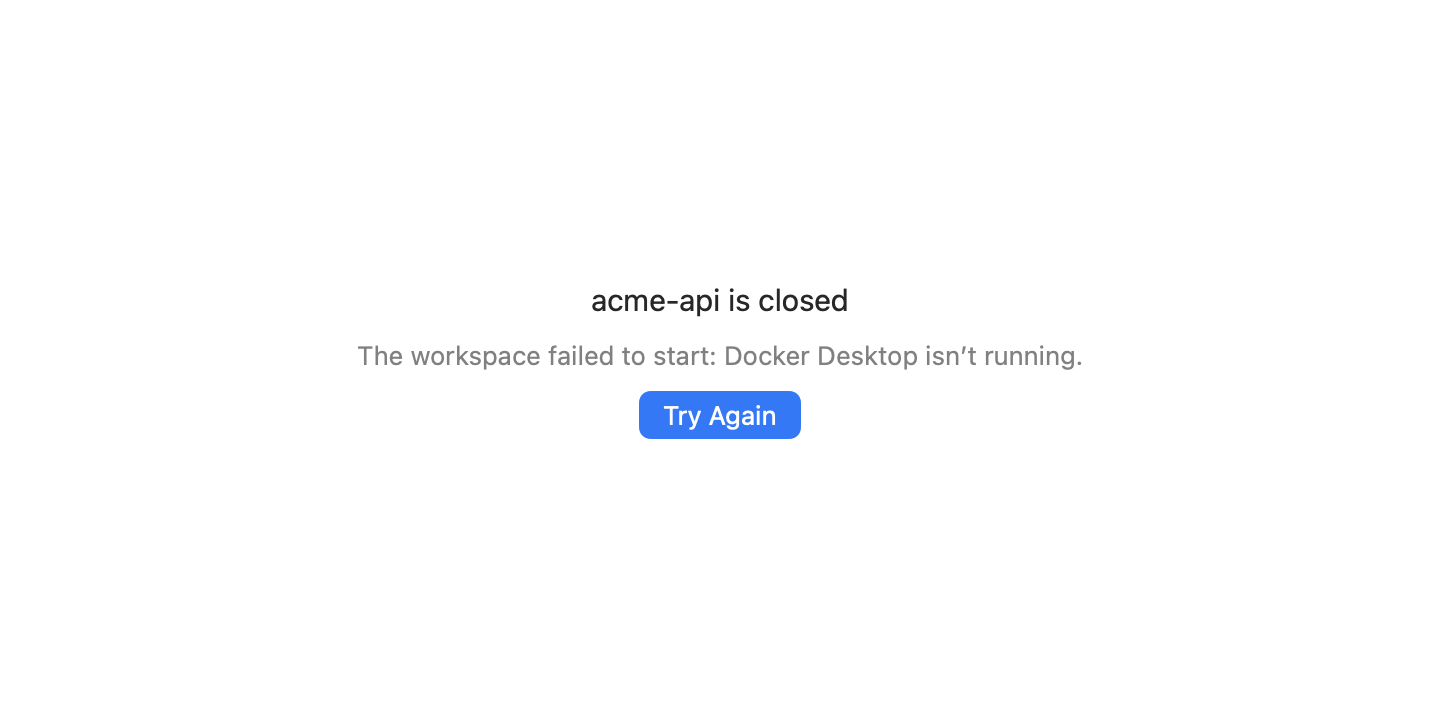
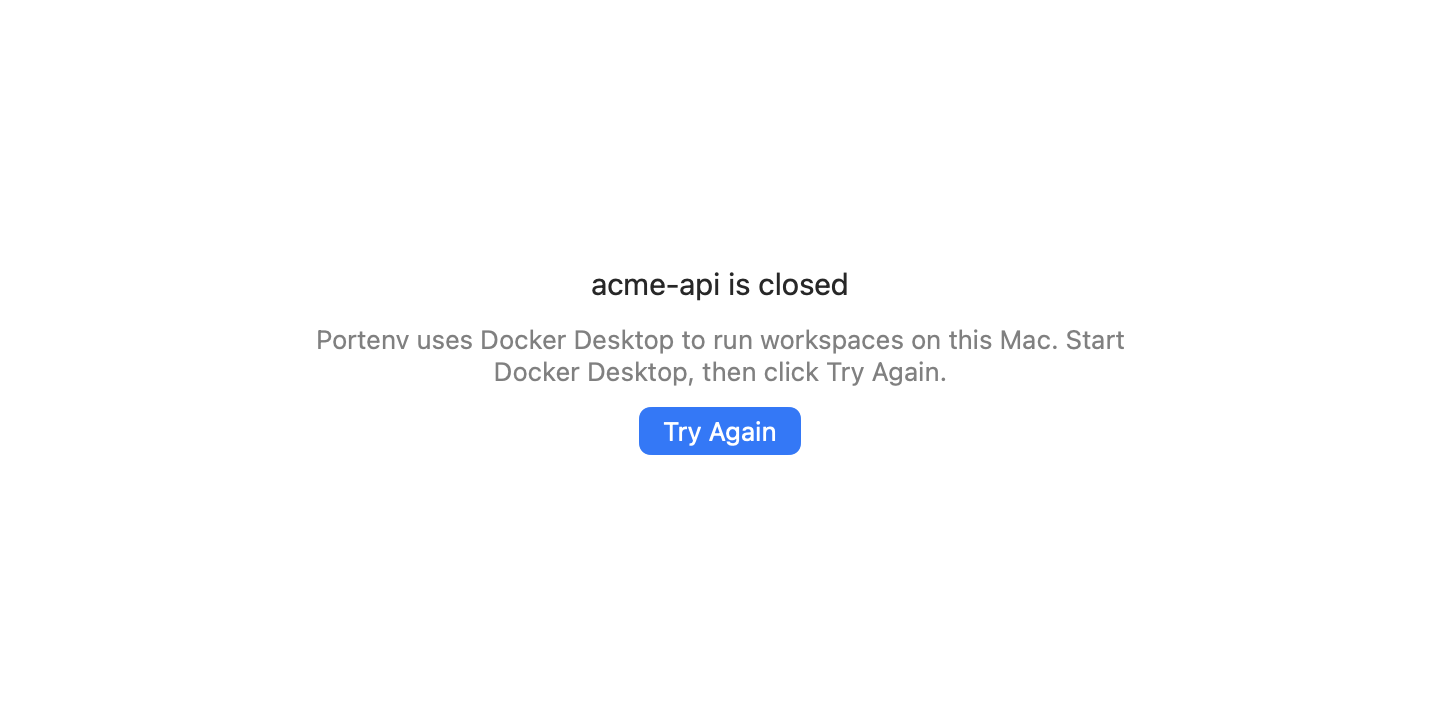
Closed window renders: portenvd's engine line as it is (R-0218)
The failed-open render showed a made-up "The workspace failed to start:
Docker Desktop isn't running." It now shows the line portenvd sends when
Docker Desktop isn't running, exactly (core/daemon/testdata/
engine-lines.txt), with no prefix. portenvd itself already sends it
bare (plainOpenError; openlog_test checks the message), and the window
shows the failure text as given. Re-rendered in light and dark.

Claude-Session: https://claude.ai/code/session_01PEHFfmAuJis3nT9YJmbt2j

Changed region(s): [[0.2188, 0.3667, 0.7812, 0.6417]]

diff --git a/apps/mac/Sources/Portenv/ScreenRenders.swift b/apps/mac/Sources/Portenv/ScreenRenders.swift
@@ -166,7 +166,9 @@ enum ScreenRenders {
             // A closed workspace's window: Open, and a failed open with Try
             // Again (R-0211).
             try snapshot(ClosedWorkspace(box: "acme-api", failure: nil) {}, name: "closed", size: NSSize(width: 720, height: 360), in: dir)
-            try snapshot(ClosedWorkspace(box: "acme-api", failure: "The workspace failed to start: Docker Desktop isn\u{2019}t running.") {},
+            // portenvd's engine line as it sends it (core/daemon/testdata/
+            // engine-lines.txt), shown as is (R-0218).
+            try snapshot(ClosedWorkspace(box: "acme-api", failure: "Portenv uses Docker Desktop to run workspaces on this Mac. Start Docker Desktop, then click Try Again.") {},
                          name: "closed-open-failed", size: NSSize(width: 720, height: 360), in: dir)
             // Command blocks, folded by default and opened (R-0139, R-0174).
             try BlockRenders.render(to: dir) { view, name, size in
